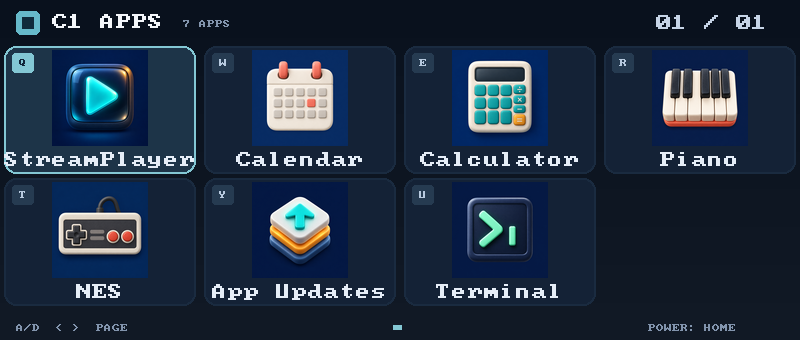
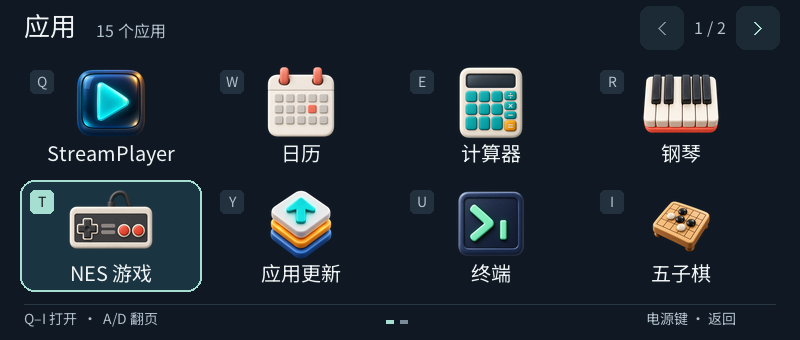
Document new apps with device screenshots and feature limits

diff --git a/README.md b/README.md
@@ -31,9 +31,16 @@ apps/
 
 旧的顶层 `launcher/`、`piano/`、`emu/` 已分别迁入这里，tinyalsa 合并到 `shared/`。来源是 CardputerZero 的应用保留在各自 README 中；未改写原工程。
 
+## 新增应用
+
+- **[Airtune 网络电台](airtune/README.md)**：拟物收音机界面，提供热门、国家、风格、心情和分组浏览，分类缓存后在后台刷新。SAVED 是本地电台列表，可收藏、手动添加 HTTP(S) 音频地址和删除；播放区显示连接状态与系统音量。电台目录来自 Radio-Browser，音频直接连接电台源。
+- **[CrossPoint 电子书](crosspoint/README.md)**：本地 EPUB、AZW3/MOBI、PDF、TXT、Markdown 文字阅读，以及 OPDS/Calibre 分类浏览、搜索、分页和下载。EPUB 按章节读取，W/S 换章、A/D 翻页；Shift＋音量 ± 调字号并保存。当前不渲染 EPUB 插图/完整 CSS，PDF 只提取文字，扫描版不适用。
+- **[拍立得](camera/README.md)**：OV5648 实时取景，4:3、3:4、1:1、16:9 四种裁切画幅，六种滤镜，以及白相纸、奶油纸、黑胶片透明边框。空格／实体拍摄键拍照，带白闪和快门音；相册可浏览、确认删除。16:9 是裁切画幅，不是光学广角。
+- **[邮件](mail/README.md)**：POP3S/STLS 收取最近八封邮件，SMTP TLS 编写、发送纯文本邮件，账号保存在设备私有配置中。当前没有 IMAP、附件、OAuth 或完整 HTML/MIME 阅读。下图展示未发送的演示草稿，尚未用真实邮箱完成收发验收。
+
 ## 设备截图
 
-下图均为 C1 Max 设备画面。模拟器截图展示实际运行中的内容；PS1 镜像及 NES ROM 由用户自行提供，仓库不包含游戏镜像。DOSBox 图为项目自带的 DOS LAB 小游戏。点图可查看 800×340 原图。
+下图均为 C1 Max 设备画面。模拟器截图展示实际运行中的内容；PS1 镜像及 NES ROM 由用户自行提供，仓库不包含游戏镜像。DOSBox 图为项目自带的 DOS LAB 小游戏。点图可查看 800×340 原图。新增截图使用已部署应用：CrossPoint 为原创演示 EPUB，邮件为未发送的演示草稿；[截图说明](docs/screenshots/README.md)记录来源与拍摄方式。
 
 <table>
   <tr>
@@ -58,7 +65,15 @@ apps/
   </tr>
   <tr>
     <td><strong>Processing</strong><br><a href="docs/screenshots/processing.png"><img src="docs/screenshots/processing.png" alt="Processing 运行 Koch 分形示例" width="400"></a><br>Processing 风格的绘图示例与 sketch 控制栏。</td>
-    <td></td>
+    <td><strong>Airtune 网络电台</strong><br><a href="docs/screenshots/airtune.png"><img src="docs/screenshots/airtune.png" alt="Airtune 本地 SAVED 电台列表、播放状态与音量面板" width="400"></a><br>本地收藏、自定义电台地址与音量显示；<a href="airtune/README.md">使用说明</a>。</td>
+  </tr>
+  <tr>
+    <td><strong>CrossPoint 电子书</strong><br><a href="docs/screenshots/crosspoint.png"><img src="docs/screenshots/crosspoint.png" alt="CrossPoint 真机阅读原创演示 EPUB，底部显示章节与翻页操作" width="400"></a><br>OPDS 下载、按章阅读与实体组合键调字号；<a href="crosspoint/README.md">格式和按键说明</a>。</td>
+    <td><strong>拍立得</strong><br><a href="docs/screenshots/camera-preview.png"><img src="docs/screenshots/camera-preview.png" alt="拍立得真机取景界面，使用 4:3 画幅、复古滤镜和白相纸" width="400"></a><br>实时滤镜、四种画幅、相纸边框和相册管理；<a href="camera/README.md">拍摄说明与相纸截图</a>。</td>
+  </tr>
+  <tr>
+    <td><strong>邮件</strong><br><a href="docs/screenshots/mail.png"><img src="docs/screenshots/mail.png" alt="邮件客户端写信界面，内容为尚未发送的演示草稿" width="400"></a><br>实体键盘编写纯文本邮件；<a href="mail/README.md">配置与支持范围</a>。</td>
+    <td><strong>Launcher 第二页</strong><br><a href="docs/screenshots/launcher-apps.png"><img src="docs/screenshots/launcher-apps.png" alt="Launcher 第二页显示 PCSX4all、Processing、DOSBox 及四个新增应用" width="400"></a><br>A/D 或横向滑动翻页，进入新增应用。</td>
   </tr>
 </table>
 
@@ -106,10 +121,11 @@ python3 ./tools/deploy.py --serial MagicPen-931f06 --start
     ├── pcsx4all/      自备游戏、BIOS、记忆卡和即时存档
     ├── dosbox/        DOS 游戏完整目录、设置与游戏存档
     ├── processing/    my-sketch.js 用户程序
-    ├── airtune/      电台收藏与最近收听站点
-    ├── crosspoint/   books/ 本地书籍、OPDS 书目配置与阅读进度
-    ├── camera/       photos/ 拍摄照片
-    └── mail/         邮箱服务器及认证信息（0600）
+    ├── airtune/       本地电台列表与分类缓存
+    ├── crosspoint/    books/ 本地书籍、OPDS 服务器与字号设置
+    ├── camera/        photos/ 拍摄照片、画幅/滤镜/相纸设置
+    ├── mail/          邮箱服务器及认证信息（0600）
+    ├── default-servers.json  单独部署的私有默认服务器（0600）
     ├── calculator/
     └── nes/roms/      自备合法 .nes 文件
 ```

diff --git a/mail/README.md b/mail/README.md
@@ -2,6 +2,14 @@
 
 Native C1 Max mail client with a physical-key-only inbox, account editor, and message composer. It supports POP3S on port 995 or POP3 with STLS on 110, and implicit-TLS SMTP on 465 or SMTP with STARTTLS on 587. TLS is restricted to TLS 1.2 or newer and validates the server certificate against the bundled CA set. The client refuses to send a password over a connection without verified TLS.
 
+## Device screenshots
+
+| Inbox | Compose |
+| --- | --- |
+| [![Mail inbox before receiving messages](../docs/screenshots/mail-inbox.png)](../docs/screenshots/mail-inbox.png) | [![Unsent demonstration draft](../docs/screenshots/mail.png)](../docs/screenshots/mail.png) |
+
+Actual C1 Max UI captured with an empty, isolated account directory. `reader@example.test` is a demonstration address, and the draft was not sent. These images demonstrate the interface, not successful authentication or delivery through a real provider.
+
 Use `S` from the inbox to enter the POP3 host/port, SMTP host/port, username, password, and From address. Move with the arrow keys, press Enter to edit, type on the device keyboard, and press Enter again to save the field. `R` fetches the last eight messages; `C` opens a text-only composer. The recipient and subject are single-line fields, and the message body accepts up to 512 characters. The final Send action requires a separate Enter press. The password is masked on screen and the JSON settings file is saved under `/storage/apps/data/mail/account.json` with owner-only permissions. The physical power key returns to the launcher.
 
 The reader displays simple `text/plain` messages and decodes base64 or quoted-printable bodies. HTML-only and multipart MIME messages are shown as unsupported text; attachments, OAuth, IMAP, address-book lookup, and mailbox deletion are not implemented. Gmail and other providers that disable basic SMTP/POP authentication require a provider-issued app password; OAuth is not supported. No account credentials or email traffic are included in the repository, and the application has not been used to log in or send a message during development.

diff --git a/docs/screenshots/README.md b/docs/screenshots/README.md
@@ -1,0 +1,18 @@
+# 设备截图说明
+
+首页图片均为 C1 Max 应用运行时画面，逻辑分辨率 800×340；点击缩略图可查看完整图片。
+
+本次新增 Airtune、CrossPoint、拍立得、邮件，以及更新后的 launcher 两页。除下表注明的既有相机验收图外，本次使用部署版本 `20260924-205817-65db3bee` 的 `c1max-capture` 读取 framebuffer；只将 340×800 BGRA 转换、旋转为横屏 PNG，没有重绘或拼接应用界面。
+
+| 文件 | 内容与来源 |
+| --- | --- |
+| `launcher.png` / `launcher-apps.png` | 正常 launcher 的第一页、第二页，共 15 个入口。 |
+| `airtune.png` | SAVED 本地列表及内置电台，未启动音频播放。 |
+| `crosspoint.png` | 原创《午后小记》演示 EPUB；不是用户下载的书籍。 |
+| `camera-preview.png` | 复用 2026-09-24 相机状态栏修复后的真机验收图（`camera-status-qa/landscape.png`），展示墙面取景、复古滤镜与白相纸；不是这轮补图时重新拍摄。 |
+| `camera.png` | 本次相纸选择层截图，拍摄环境较暗，因此预览缩略图接近黑色；使用隔离设置，未拍照或改动用户相册。 |
+| `mail-inbox.png` / `mail.png` | 空收件箱、未发送的演示草稿；无真实邮箱配置或通信。 |
+
+本次应用截图操作使用临时应用数据目录，完成后清理。图像不包含个人服务器地址、访问令牌或邮箱凭据。没有将演示邮件包装成真实收发验证。
+
+原有 StreamPlayer、日历、计算器、钢琴、终端、五子棋、NES、PCSX4all、DOSBox、Processing 截图保留。PCSX4all 展示用户提供游戏的运行画面；NES 当前是设备渲染/输入自测；DOSBox 展示随项目提供的 DOS LAB。游戏镜像不在仓库中。

diff --git a/airtune/README.md b/airtune/README.md
@@ -2,6 +2,12 @@
 
 Native C1 Max internet-radio app with a tactile tuner interface. It reads public station metadata from Radio-Browser, which Airtune itself names as the source for station metadata. Station audio is opened directly from the station's published stream URL by the system MPlayer; the app does not relay audio through Airtune.
 
+## Device screenshot
+
+![Airtune local station list and volume panel](../docs/screenshots/airtune.png)
+
+C1 Max framebuffer capture of the local SAVED list, populated with the app's built-in station presets. Directory categories and manually added streams use the same interface. The screenshot was taken without starting playback.
+
 Controls: `R` reloads directory data, `Q` searches by name, arrows/WASD change selection, and Enter starts or stops playback. `F` adds or removes the selected directory station from the local **SAVED** list. In **SAVED**, press `A` to add a station by entering its name and HTTP(S) stream URL; select any row and press Backspace or `F` to delete it. Saved entries are stored with their names and URLs in `/storage/apps/data/airtune/saved-stations.json`, so playback and editing do not depend on Radio-Browser. The first upgrade seeds the list with the 14 supplied stations and imports old UUID favorites when Radio-Browser can resolve them. The physical power key returns to the launcher.
 
 The app does not log in to Airtune or depend on an undocumented Airtune API. It requests the public Radio-Browser search endpoint and sends the documented UUID click request when a station is started. Starting the app only loads station metadata; it does not start audio automatically.

diff --git a/crosspoint/README.md b/crosspoint/README.md
@@ -2,6 +2,12 @@
 
 Native MIPS/Linux reading app: a local EPUB/TXT/Markdown/Kindle/PDF text shelf and an OPDS 1.x browser for Calibre Content Server. This port follows the upstream CrossPoint Reader's OPDS interaction model; its ESP32/e-paper firmware is not flashed onto this Linux device.
 
+## Device screenshot
+
+![CrossPoint reading an original demonstration EPUB](../docs/screenshots/crosspoint.png)
+
+Actual C1 Max rendering of an original demonstration EPUB, stored in an isolated shelf for documentation. W/S changes chapters, A/D turns pages, and Shift + Volume +/− adjusts the body font. Personal books, server addresses and credentials are not included in this screenshot.
+
 ## Online library
 
 Open server settings with **S** on the shelf. Enter a full `https://server/opds` URL; leave both login fields blank for anonymous access. **O** opens the saved catalog. Settings live in `$C1_APPS_DATA/crosspoint/servers.json` with mode `0600`, outside application releases. Optional [private server defaults](../config/README.md) seed a fresh install and are deployed outside public releases; existing saved settings take priority. Existing additional server records are preserved; the current UI edits and opens the first server. Browsing child catalogs never overwrites the saved root address.

diff --git a/camera/README.md b/camera/README.md
@@ -2,6 +2,14 @@
 
 Native LVGL/V4L2 camera for the C1 Max's OV5648 and Ingenic ISP (`/dev/video4`). A dark, full-height viewfinder replaces the old white card. Four image ratios, six filters and four paper choices share one rendering pipeline: the crop, look and paper seen in the preview are also saved into the JPEG.
 
+## Device screenshots
+
+| Live preview | Paper selection |
+| --- | --- |
+| [![Live viewfinder with white paper](../docs/screenshots/camera-preview.png)](../docs/screenshots/camera-preview.png) | [![Paper selection sheet](../docs/screenshots/camera.png)](../docs/screenshots/camera.png) |
+
+These are framebuffer captures from the deployed C1 Max app. They show the complete composition and the four paper choices. Only preview/settings were used for these documentation images; no new photo was added to the user's album.
+
 ## Picture and paper
 
 | Image ratio | JPEG image without paper | Composition |
